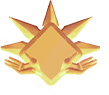
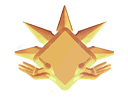
MVP rank badges: subrank engraved on the badge like the game's CitadelRankedBadgeMini
Uses the untrimmed ranked/badges/rankNN_sm art in a square box and copies
citadel_ranked_badge.vcss: Oracle bold at 64/256 of the box, #000000ee,
per-rank glow color and per-rank drop.

Claude-Session: https://claude.ai/code/session_01Y78CMhkmLQVpPca8G9azqg

diff --git a/style.css b/style.css
@@ -213,20 +213,22 @@ body.standalone .matchForm { display: flex; }
 .lobbyRank { margin-left: auto; display: flex; align-items: center; gap: 8px; }
 .lbl { font-size: 13px; font-weight: 600; letter-spacing: 0.5px; text-transform: uppercase; opacity: 0.45; }
 .rank { display: inline-flex; align-items: center; gap: 6px; font-family: var(--oracle); font-weight: 600; font-size: 16px; white-space: nowrap; }
-.rank img { width: 34px; height: 34px; object-fit: contain; }
-/* Subrank on the badge: I to V, and a star for the sixth, as the game writes them. --b is the badge size. */
-.rank .rk { --b: 34px; position: relative; display: inline-block; flex: none; width: var(--b); height: var(--b); }
-.rank .rk img { display: block; width: 100%; height: 100%; }
+/* Badge box like the game's CitadelRankedBadgeMini: square, art contained, subrank engraved as dark text.
+   Game units are a 256px box, so 1 unit = var(--b) / 256. --drop is the per-rank margin-top (Panorama centers the
+   label in what is left, so it moves down by half of it). --b is the badge size. */
+.rank .rk { --b: 40px; --u: calc(var(--b) / 256); position: relative; display: inline-block; flex: none; width: var(--b); height: var(--b); }
+.rank .rk img { display: block; width: 100%; height: 100%; object-fit: contain; }
 .rank .rk b {
-  position: absolute; left: 0; right: 0; bottom: 14%; text-align: center; pointer-events: none;
-  font-family: var(--oracle); font-weight: 700; font-size: max(10px, calc(var(--b) * 0.34)); line-height: 1; letter-spacing: 0.5px;
-  color: #fff; text-shadow: 0 0 2px #000, 0 1px 2px #000, 0 0 4px #000a;
+  position: absolute; left: 0; right: 0; top: calc(50% + var(--u) * var(--drop) / 2); transform: translateY(-50%);
+  margin-left: calc(var(--u) * -2); text-align: center; pointer-events: none;
+  font-family: var(--oracle); font-weight: 700; font-size: calc(var(--u) * 64); line-height: 1;
+  color: #000000ee; text-shadow: 0 0 calc(var(--u) * 4) var(--glow);
 }
 .rank.none { opacity: 0.4; font-size: 14px; }
 .teamAvg { position: absolute; left: 0; top: 92px; width: 145px; display: flex; align-items: center; justify-content: flex-end; gap: 4px; padding-right: 8px; }
 .teamAvg.right { left: auto; right: 0; justify-content: flex-start; padding: 0 0 0 8px; }
 .teamAvg .rank { font-size: 13px; gap: 3px; }
-.teamAvg .rank .rk { --b: 26px; }
+.teamAvg .rank .rk { --b: 32px; }
 .teamAvg .lbl { font-size: 11px; }
 body.tabPick .player .pcolor { opacity: 0; }
 body.tabPick .player.pick .pcolor { opacity: 1; background: var(--offWhite); }
@@ -263,7 +265,7 @@ body:not(.tabMu) #muView { display: none; }
 .mvpRow .who { display: flex; align-items: center; justify-content: space-between; gap: 10px; min-width: 0; }
 .mvpRow .hn { font-family: var(--oracle); font-weight: 700; font-size: 20px; white-space: nowrap; overflow: hidden; text-overflow: ellipsis; }
 .mvpRow .rank { font-size: 13px; opacity: 0.85; }
-.mvpRow .rank .rk { --b: 40px; }
+.mvpRow .rank .rk { --b: 52px; }
 .catBar { height: 14px; display: flex; background: rgba(255,239,215,0.06); border-radius: 2px; overflow: hidden; }
 .catBar i { display: block; height: 100%; }
 .catBar i + i { box-shadow: inset 1px 0 0 #0006; }

diff --git a/app.js b/app.js
@@ -254,8 +254,11 @@ function buildEvents(mi) {
 // ---------- ranks ----------
 // Valve's packed badge: tens = tier (0 Obscurus .. 11 Eternus), ones = subrank 1-6.
 // Names and badges from the ranked overhaul (Citadel_ranks_N strings, ranked/badges/rankNN_sm art).
-// That art has no subrank versions, so the subrank is drawn inside the badge the way the game shows it: I to VI
-// (Citadel_subranks_1..6), white on the badge itself. Averages (team, lobby) show the badge without it.
+// The game draws the subrank as text engraved on that art (citadel_ranked_badge.vcss, CitadelRankedBadgeMini):
+// a 256px box, Oracle bold 64px, #000000ee, a 4px glow in a per-rank color, pushed down by a per-rank margin.
+// RANK_GLOW and RANK_DROP copy those values. Averages (team, lobby) show the badge without it.
+const RANK_GLOW = ["#fff6", "#6b4e2f", "#7c6e63", "#8b9092", "#a57941", "#b9d0e0", "#ddb854", "#e3eade", "#d7e1eb", "#d2dcef", "#f2fed6", "#fafdfc"];
+const RANK_DROP = [68, 68, 62, 68, 68, 68, 68, 42, 68, 46, 48, 30];
 const RANK_NAMES = ["Obscurus", "Initiate", "Seeker", "Acolyte", "Sentinel", "Mystic", "Ritualist", "Emissary", "Oracle", "Phantom", "Ascendant", "Eternus"];
 const SUBRANKS = ["", "I", "II", "III", "IV", "V", "VI"];
 function rankOf(badge) {
@@ -275,7 +278,7 @@ function avgBadge(badges) {
 }
 function rankHtml(badge, cls, plain) {
   const r = rankOf(badge);
-  return r ? `<span class="${cls || "rank"}"><span class="rk"><img src="${r.img}" alt="">${r.mark && !plain ? `<b>${r.mark}</b>` : ""}</span><span>${esc(r.name)}</span></span>` : "";
+  return r ? `<span class="${cls || "rank"}"><span class="rk" style="--glow:${RANK_GLOW[r.tier]};--drop:${RANK_DROP[r.tier]}"><img src="${r.img}" alt="">${r.mark && !plain ? `<b>${r.mark}</b>` : ""}</span><span>${esc(r.name)}</span></span>` : "";
 }
 
 // ---------- top bar ----------
